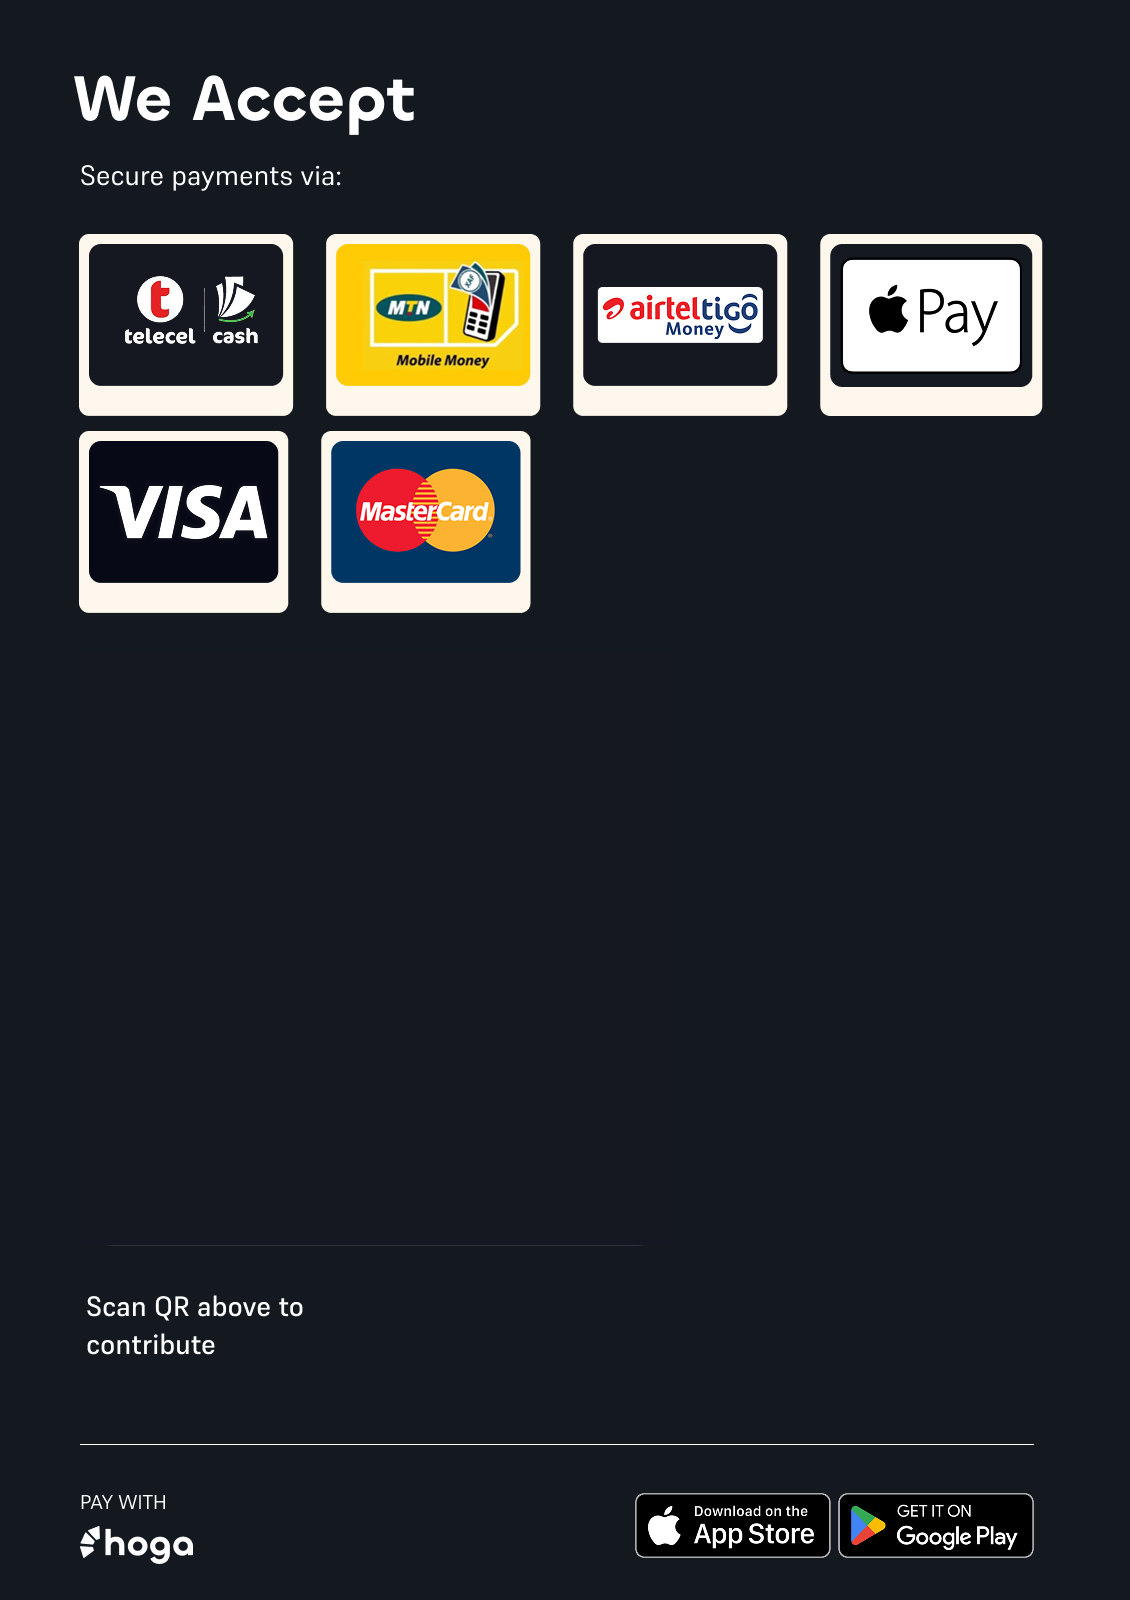
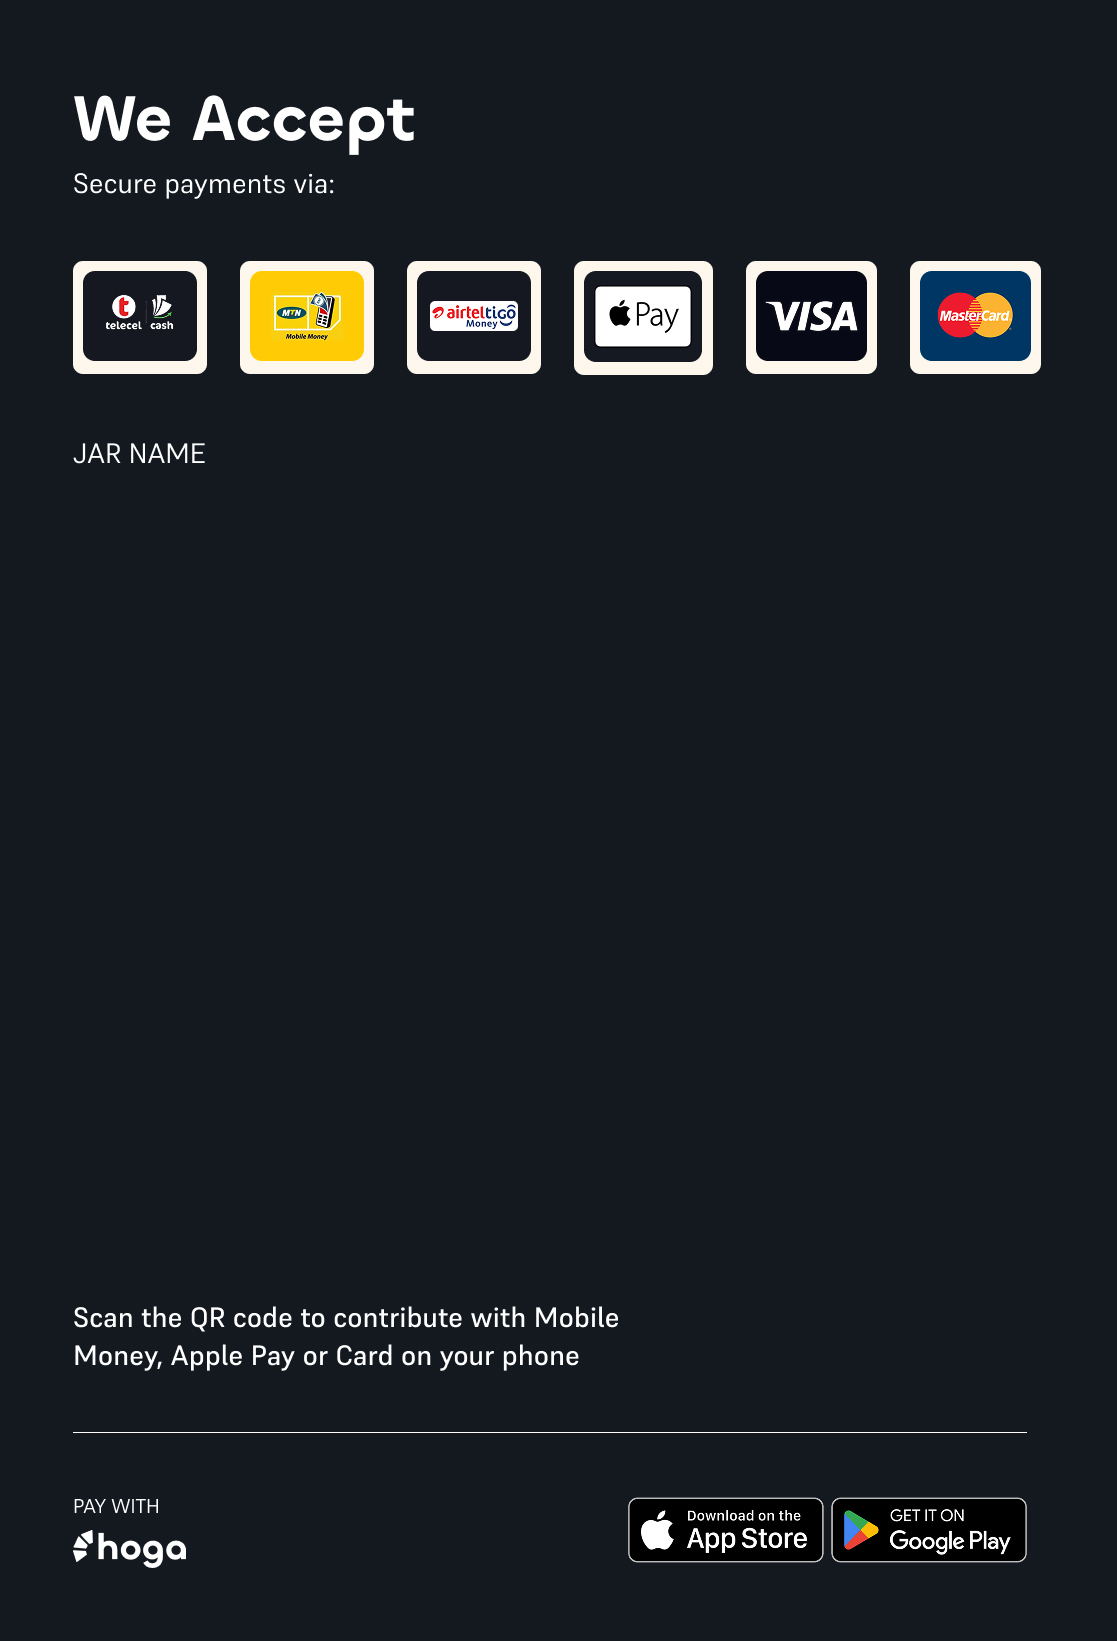
fix: updates

diff --git a/mobile_app/lib/features/authentication/presentation/views/register_view.dart b/mobile_app/lib/features/authentication/presentation/views/register_view.dart
@@ -1,8 +1,11 @@
+import 'package:Hoga/core/theme/text_styles.dart';
 import 'package:flutter/gestures.dart';
 import 'package:flutter/material.dart';
 import 'package:flutter_bloc/flutter_bloc.dart';
+import 'package:Hoga/core/constants/app_links.dart';
 import 'package:Hoga/core/constants/app_spacing.dart';
 import 'package:Hoga/core/constants/select_options.dart';
+import 'package:Hoga/core/utils/url_launcher_utils.dart';
 import 'package:Hoga/core/widgets/button.dart';
 import 'package:Hoga/core/widgets/number_input.dart';
 import 'package:Hoga/core/widgets/select_input.dart';
@@ -59,6 +62,18 @@ class _RegisterViewState extends State<RegisterView> {
       AppSnackBar.showError(
         context,
         message: localizations.pleaseEnterEmailAddress,
+      );
+      return;
+    }
+
+    // Validate email format
+    final emailRegex = RegExp(
+      r'^[a-zA-Z0-9._%+-]+@[a-zA-Z0-9.-]+\.[a-zA-Z]{2,}$',
+    );
+    if (!emailRegex.hasMatch(_emailController.text.trim())) {
+      AppSnackBar.showError(
+        context,
+        message: 'Please enter a valid email address',
       );
       return;
     }
@@ -158,6 +173,12 @@ class _RegisterViewState extends State<RegisterView> {
                 controller: _nameController,
                 key: const Key('fullName'),
               ),
+              const SizedBox(height: 3),
+              const Text(
+                'Your full name should match the name on your ID.',
+                style: AppTextStyles.titleRegularXs,
+              ),
+
               const SizedBox(height: AppSpacing.spacingS),
               AppTextInput(
                 key: const Key('email'),
@@ -214,9 +235,7 @@ class _RegisterViewState extends State<RegisterView> {
                       recognizer:
                           TapGestureRecognizer()
                             ..onTap = () {
-                              // Handle Terms & Conditions tap
-                              print('Terms & Conditions tapped');
-                              // TODO: Navigate to Terms & Conditions page
+                              UrlLauncherUtils.launch(AppLinks.terms);
                             },
                     ),
                     TextSpan(text: localizations.and),
@@ -226,9 +245,7 @@ class _RegisterViewState extends State<RegisterView> {
                       recognizer:
                           TapGestureRecognizer()
                             ..onTap = () {
-                              // Handle Privacy Policy tap
-                              print('Privacy Policy tapped');
-                              // TODO: Navigate to Privacy Policy page
+                              UrlLauncherUtils.launch(AppLinks.privacy);
                             },
                     ),
                   ],

diff --git a/mobile_app/lib/features/contribution/presentation/views/request_contribution_view.dart b/mobile_app/lib/features/contribution/presentation/views/request_contribution_view.dart
@@ -109,7 +109,7 @@ class _RequestContributionViewState extends State<RequestContributionView> {
       // Calculate QR code position (adjust these values based on your template)
       // These coordinates should match where the QR code area is in your template
       const double qrX =
-          -20; // X position where QR should be placed (left edge of white area)
+          -40; // X position where QR should be placed (left edge of white area)
       const double qrY =
           550; // Y position where QR should be placed (top of white area)
       const double qrSize =
@@ -125,6 +125,32 @@ class _RequestContributionViewState extends State<RequestContributionView> {
         Rect.fromLTWH(qrX, qrY, qrSize, qrSize),
         Paint(),
       );
+
+      // Add jar name text to the image with text wrapping
+      final textPainter = TextPainter(
+        text: TextSpan(
+          text: jarName,
+          style: AppTextStyles.headingOne.copyWith(
+            color: Colors.white,
+            fontSize: 50,
+            fontWeight: FontWeight.bold,
+          ),
+        ),
+        textDirection: TextDirection.ltr,
+        textAlign: TextAlign.left, // Center align the text
+      );
+
+      // Set maximum width for text wrapping (leave some padding from edges)
+      const double maxTextWidth =
+          900.0; // Maximum width for text before wrapping
+      textPainter.layout(maxWidth: maxTextWidth);
+
+      // Calculate text position (centered horizontally, positioned where "Streaming Funding" appears in template)
+      final textX = 70.0; // Center the text block
+      const double textY =
+          480.0; // Position where the jar name should appear in the template
+
+      textPainter.paint(canvas, Offset(textX, textY));
 
       // Convert to final image
       final ui.Picture picture = recorder.endRecording();

diff --git a/cms/src/collections/Contributions/hooks/validate-jar-creator-account.ts b/cms/src/collections/Contributions/hooks/validate-jar-creator-account.ts
@@ -1,0 +1,52 @@
+import { CollectionBeforeValidateHook, APIError } from 'payload'
+
+export const validateJarCreatorAccount: CollectionBeforeValidateHook = async ({
+  data,
+  req,
+  operation,
+}) => {
+  // Only validate for create operations and mobile-money payments
+  if (operation !== 'create' || data?.paymentMethod !== 'mobile-money') {
+    return
+  }
+
+  // Check if jar is provided
+  if (!data?.jar) {
+    return
+  }
+
+  try {
+    // Get the jar with creator information
+    const jar = await req.payload.findByID({
+      collection: 'jars',
+      id: typeof data.jar === 'string' ? data.jar : data.jar.id,
+      depth: 2, // Get creator details
+    })
+
+    if (!jar || !jar.creator) {
+      throw new APIError('Jar creator not found', 404)
+    }
+
+    // Check if creator has withdrawal account number
+    const creator =
+      typeof jar.creator === 'string'
+        ? await req.payload.findByID({
+            collection: 'users',
+            id: jar.creator,
+          })
+        : jar.creator
+
+    if (!creator?.accountNumber) {
+      throw new APIError("Mobile money contribution can't be made at this time", 400)
+    }
+  } catch (error) {
+    // If it's our custom APIError, throw it as is
+    if (error instanceof APIError) {
+      throw error
+    }
+
+    // For other errors, log and throw generic message
+    console.error('Error validating jar creator account:', error)
+    throw new APIError("Mobile money contribution can't be made at this time", 400)
+  }
+}

diff --git a/mobile_app/lib/features/jars/presentation/widgets/jar_more_menu.dart b/mobile_app/lib/features/jars/presentation/widgets/jar_more_menu.dart
@@ -40,7 +40,7 @@ class JarMoreMenu extends StatelessWidget {
         BlocListener<MediaBloc, MediaState>(
           listener: (context, state) {
             if (state is MediaLoaded &&
-                state.context == MediaUploadContext.jarImage) {
+                state.context == MediaUploadContext.jarImageHome) {
               final jarImageId = state.media.id;
               context.read<UpdateJarBloc>().add(
                 UpdateJarRequested(
@@ -149,7 +149,7 @@ class JarMoreMenu extends StatelessWidget {
         // Navigate to jar info/edit
         ImageUploaderBottomSheet.show(
           context,
-          uploadContext: MediaUploadContext.jarImage,
+          uploadContext: MediaUploadContext.jarImageHome,
         );
         break;
     }

diff --git a/cms/src/collections/Contributions/index.ts b/cms/src/collections/Contributions/index.ts
@@ -10,6 +10,7 @@ import { verifyPayment } from './endpoints/verify-payment'
 import { setPaymentStatus } from './hooks'
 import { getCharges } from './hooks/getCharges'
 import { sendContributionReceipt } from './hooks/send-contribution-receipt'
+import { validateJarCreatorAccount } from './hooks/validate-jar-creator-account'
 import { verifyPendingTransactions } from './endpoints/verify-pending-transactions'
 import { exportContributions } from './endpoints/export-contributions'
 
@@ -334,5 +335,6 @@ export const Contributions: CollectionConfig = {
   hooks: {
     beforeChange: [setPaymentStatus, getCharges],
     afterChange: [sendContributionReceipt],
+    beforeValidate: [validateJarCreatorAccount],
   },
 }

diff --git a/cms/src/collections/Users/endpoints/request-kyc.ts b/cms/src/collections/Users/endpoints/request-kyc.ts
@@ -16,9 +16,9 @@ const extractNames = (fullName: string) => {
   } else if (nameParts.length === 1) {
     return { firstName: nameParts[0], lastName: '' }
   } else {
-    // First part is first name, everything else is last name
-    const firstName = nameParts[0]
-    const lastName = nameParts.slice(1).join(' ')
+    // Last word is last name, everything else is first name
+    const lastName = nameParts[nameParts.length - 1]
+    const firstName = nameParts.slice(0, -1).join(' ')
     return { firstName, lastName }
   }
 }

diff --git a/cms/src/collections/Users/endpoints/update-kyc.ts b/cms/src/collections/Users/endpoints/update-kyc.ts
@@ -61,7 +61,7 @@ export const updateKYC = async (req: PayloadRequest) => {
     // Send SMS notification and email if KYC is verified
     if (kycStatus === 'verified') {
       if (process.env.NODE_ENV !== 'test') {
-        const message = `Hello ${user.fullName || ''}, your KYC verification was successful. Thank you!`
+        const message = `Hello ${user.fullName || ''}, your KYC verification was successful, please restart the app to continue using it. Thank you!`
         sendSMS([user.phoneNumber], message)
       }
 

diff --git a/mobile_app/lib/features/contribution/data/api_reproviders/contribution_api_provider.dart b/mobile_app/lib/features/contribution/data/api_reproviders/contribution_api_provider.dart
@@ -88,6 +88,12 @@ class ContributionApiProvider extends BaseApiProvider {
 
       return response.data;
     } catch (e) {
+      if (e is DioException && e.response?.statusCode == 400) {
+        // Handle validation errors (like missing withdrawal account)
+        final errorMessage =
+            e.response?.data?['message'] ?? 'Validation error occurred';
+        return {'success': false, 'message': errorMessage, 'data': null};
+      }
       return handleApiError(e, 'adding contribution');
     }
   }

diff --git a/mobile_app/lib/features/contribution/presentation/views/save_contribution_view.dart b/mobile_app/lib/features/contribution/presentation/views/save_contribution_view.dart
@@ -271,7 +271,6 @@ class _SaveContributionViewState extends State<SaveContributionView> {
 
                         // Add spacing to push button to bottom, but allow scrolling if needed
                         Spacer(),
-
                         // Request button
                         AppButton.filled(
                           isLoading: state is AddContributionLoading,

diff --git a/cms/src/components/emailTemplates/kycVerified.tsx b/cms/src/components/emailTemplates/kycVerified.tsx
@@ -10,6 +10,7 @@ export default function kycVerified({ fullname = 'John Doe' }: EmailTemplateProp
     <Layout title={` Congratulations ${fullname}! 🎉`}>
       <p>
         Your KYC has been successfully verified. You can now access all features of your account.
+        Simply restart the app to continue using it.
       </p>
     </Layout>
   )

diff --git a/mobile_app/lib/core/enums/media_upload_context.dart b/mobile_app/lib/core/enums/media_upload_context.dart
@@ -8,4 +8,7 @@ enum MediaUploadContext {
 
   /// Upload for general media (default)
   general,
+
+  // Upload from jar details home screen
+  jarImageHome,
 }
